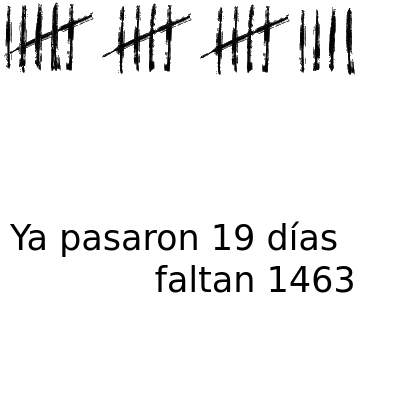
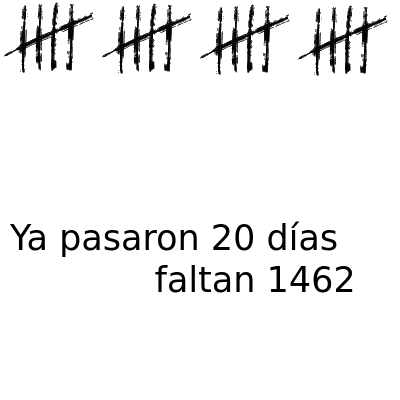
deploy: 28882f26f23b9f53dac6c4991168e610486d0e44

diff --git a/index.html b/index.html
@@ -3,19 +3,19 @@
   <head>
     <meta charset='utf-8'>
     <meta http-equiv='X-UA-Compatible' content='IE=edge'>
-    <title>Ya pasaron 19 días y faltan 1463</title>
-    <meta name="description" content="Ya pasaron 19 días y faltan 1463">
-    <meta itemprop="name" content="Ya pasaron 19 días y faltan 1463">
-    <meta itemprop="description" content="Ya pasaron 19 días y faltan 1463">
+    <title>Ya pasaron 20 días y faltan 1462</title>
+    <meta name="description" content="Ya pasaron 20 días y faltan 1462">
+    <meta itemprop="name" content="Ya pasaron 20 días y faltan 1462">
+    <meta itemprop="description" content="Ya pasaron 20 días y faltan 1462">
     <meta name="twitter:card" content="summary">
-    <meta name="twitter:title" content="Ya pasaron 19 días y faltan 1463">
-    <meta name="twitter:description" content="Ya pasaron 19 días y faltan 1463">
+    <meta name="twitter:title" content="Ya pasaron 20 días y faltan 1462">
+    <meta name="twitter:description" content="Ya pasaron 20 días y faltan 1462">
     <meta name="twitter:creator" content="@FloriusWasTaken">
     <meta name="twitter:image" content="https://pasaron.meme.ar/capture.png">
-    <meta property="og:title" content="Ya pasaron 19 días y faltan 1463">
-    <meta property="og:description" content="Ya pasaron 19 días y faltan 1463">
+    <meta property="og:title" content="Ya pasaron 20 días y faltan 1462">
+    <meta property="og:description" content="Ya pasaron 20 días y faltan 1462">
     <meta property="og:url" content="https://pasaron.meme.ar">
-    <meta property="og:site_name" content="Ya pasaron 19 días y faltan 1463">
+    <meta property="og:site_name" content="Ya pasaron 20 días y faltan 1462">
     <meta property="og:type" content="website">
     <meta property="og:image" content="https://pasaron.meme.ar/capture.png">
     <meta name="theme-color" content="#dc143c">
@@ -69,18 +69,16 @@
         padding: 0;
       }
     </style>
-    <title>Ya pasaron 19 días y faltan 1463</title>
+    <title>Ya pasaron 20 días y faltan 1462</title>
   </head>
   <body>
     <div id="main">
-      <img src="img/5.png"/><img src="img/5.png"/><img src="img/5.png"/>
-      
-        <img src="img/4.png"/>
+      <img src="img/5.png"/><img src="img/5.png"/><img src="img/5.png"/><img src="img/5.png"/>
       
     </div>
     <footer id="footer">
       <marquee id="marquee" class="is-vertical-align">
-        Ya pasaron 19 días y faltan 1463
+        Ya pasaron 20 días y faltan 1462
       </marquee>
       <ul>
         <li>
